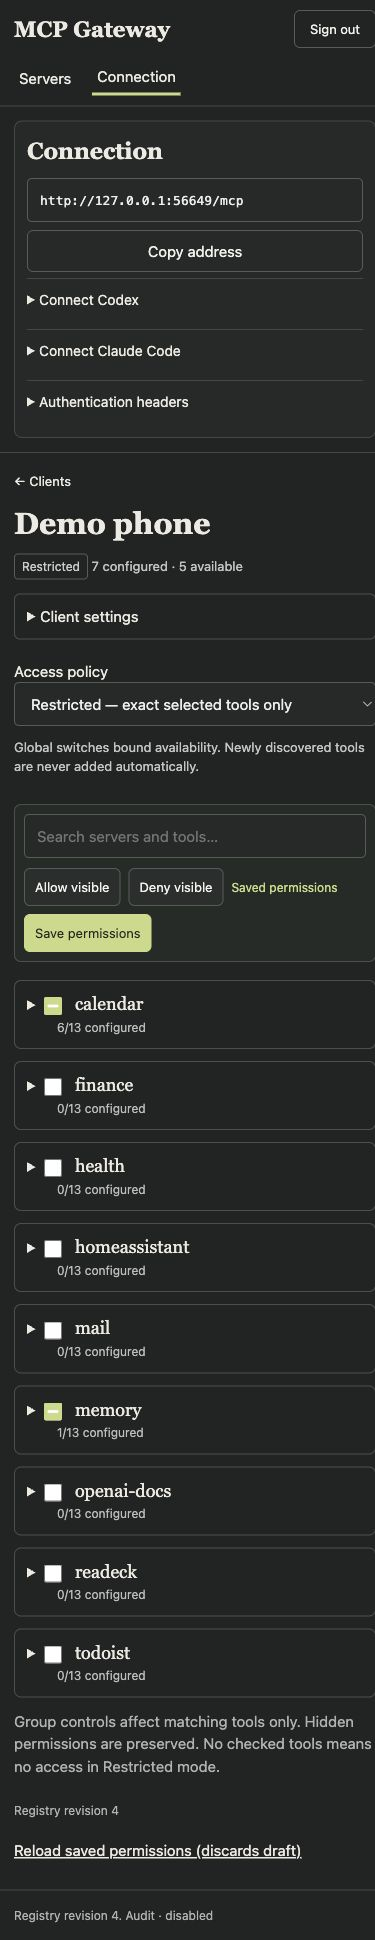
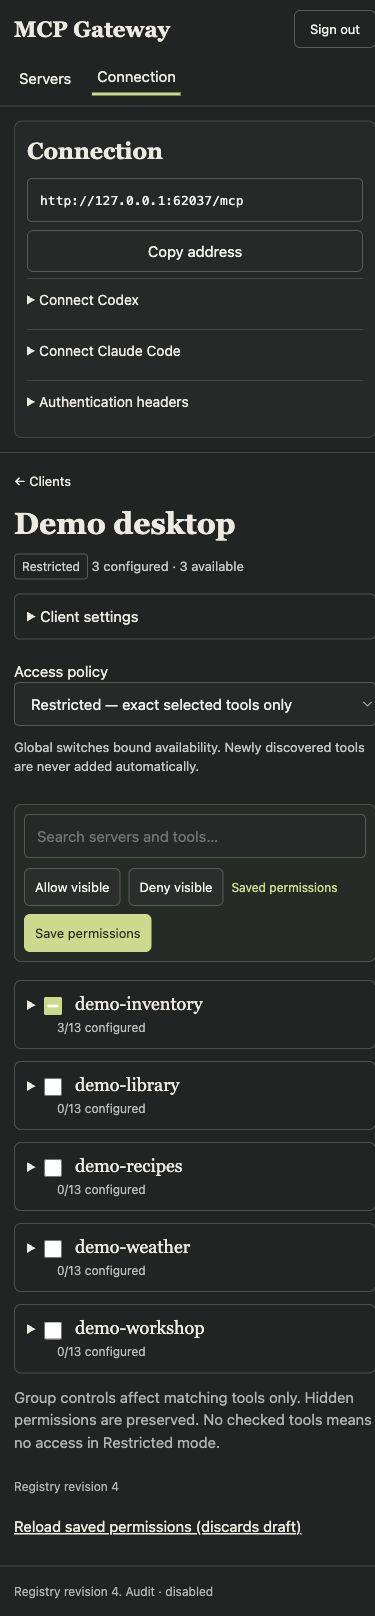
docs: update gateway guide and synthetic screenshots

diff --git a/scripts/readme_fixture.go b/scripts/readme_fixture.go
@@ -1,0 +1,142 @@
+//go:build ignore
+
+// Synthetic local browser fixture. It never contacts real providers.
+package main
+
+import (
+	"bytes"
+	"context"
+	"encoding/json"
+	"fmt"
+	"net/http"
+	"net/http/httptest"
+	"os"
+	"os/signal"
+	"path/filepath"
+	"syscall"
+	"time"
+
+	"github.com/modelcontextprotocol/go-sdk/mcp"
+	"mcp-gateway/internal/admin"
+	"mcp-gateway/internal/catalog"
+	"mcp-gateway/internal/config"
+	"mcp-gateway/internal/gateway"
+	"mcp-gateway/internal/readpolicy"
+	"mcp-gateway/internal/store"
+)
+
+func main() {
+	if err := run(); err != nil {
+		fmt.Fprintln(os.Stderr, err)
+		os.Exit(1)
+	}
+}
+
+func run() error {
+	ctx, stop := signal.NotifyContext(context.Background(), os.Interrupt, syscall.SIGTERM)
+	defer stop()
+	dir, err := os.MkdirTemp("", "gateway-workspace-fixture-")
+	if err != nil {
+		return err
+	}
+	defer os.RemoveAll(dir)
+	path := filepath.Join(dir, "registry.db")
+	if err = store.Migrate(ctx, "sqlite", path); err != nil {
+		return err
+	}
+	db, err := store.Open("sqlite", path, bytes.Repeat([]byte{14}, 32))
+	if err != nil {
+		return err
+	}
+	defer db.Close()
+	if err = os.Setenv("WORKSPACE_FIXTURE_CLIENT_TOKEN", "synthetic-workspace-client-token-123456"); err != nil {
+		return err
+	}
+
+	upstream := mcp.NewServer(&mcp.Implementation{Name: "synthetic-inventory", Version: "1"}, nil)
+	var definitions []*mcp.Tool
+	reads := []string{"list_items", "get_item", "search_items", "get_stock", "list_locations", "get_location"}
+	writes := []string{"add_item", "update_item", "remove_item", "move_item", "add_location", "remove_location"}
+	for _, name := range reads {
+		definitions = append(definitions, &mcp.Tool{Name: name, Description: "Synthetic read operation", InputSchema: map[string]any{"type": "object", "properties": map[string]any{}}, Annotations: &mcp.ToolAnnotations{ReadOnlyHint: true}})
+	}
+	for _, name := range writes {
+		definitions = append(definitions, &mcp.Tool{Name: name, Description: "Synthetic write operation", InputSchema: map[string]any{"type": "object", "properties": map[string]any{}}})
+	}
+	definitions = append(definitions, &mcp.Tool{Name: "preview_import", Description: "Synthetic unclassified operation", InputSchema: map[string]any{"type": "object", "properties": map[string]any{}}})
+	for _, tool := range definitions {
+		upstream.AddTool(tool, func(context.Context, *mcp.CallToolRequest) (*mcp.CallToolResult, error) {
+			return &mcp.CallToolResult{Content: []mcp.Content{&mcp.TextContent{Text: `{"synthetic":true}`}}}, nil
+		})
+	}
+	backend := httptest.NewServer(mcp.NewStreamableHTTPHandler(func(*http.Request) *mcp.Server { return upstream }, nil))
+	defer backend.Close()
+	hash, err := readpolicy.OperationFingerprint(definitions[0])
+	if err != nil {
+		return err
+	}
+	names := []string{"demo-inventory", "demo-recipes", "demo-library", "demo-workshop", "demo-weather"}
+	cfg := &config.Config{RegistryVersion: config.RegistryVersion, Servers: map[string]config.Server{}, Principals: map[string]config.Principal{"demo-cli": {AccessPolicy: config.LegacyShared, ToolAllowlist: map[string][]string{}, TokenEnv: "WORKSPACE_FIXTURE_CLIENT_TOKEN", Grants: map[string]map[string]config.Grant{}}}}
+	for i, name := range names {
+		server := config.Server{URL: backend.URL, Description: "Synthetic " + name + " connector", Enabled: i != 4, Tools: map[string]config.Tool{}}
+		for j, tool := range definitions {
+			v := config.Tool{Enabled: j%3 != 2, AccessMode: "shared"}
+			if j == 0 {
+				v.OperationKind = "read"
+				v.OperationContractHash = hash
+			}
+			if j >= len(reads) && j < len(reads)+len(writes) {
+				v.OperationKind = "write"
+			}
+			server.Tools[tool.Name] = v
+		}
+		cfg.Servers[name] = server
+		conn, e := catalog.FromSnapshot(store.Snapshot{Config: cfg}, name)
+		if e != nil {
+			return e
+		}
+		setting := server.Tools[definitions[0].Name]
+		setting.OperationContractHash, e = readpolicy.OperationFingerprint(definitions[0], catalog.ConnectionBinding(conn))
+		if e != nil {
+			return e
+		}
+		server.Tools[definitions[0].Name] = setting
+		cfg.Servers[name] = server
+	}
+	snap, err := db.CompareAndSwap(ctx, 0, cfg, nil)
+	if err != nil {
+		return err
+	}
+	cache := catalog.New()
+	defer cache.Close()
+	for _, name := range names {
+		conn, e := catalog.FromSnapshot(snap, name)
+		if e != nil {
+			return e
+		}
+		if e = cache.Publish(conn, snap.Revision, time.Now(), definitions); e != nil {
+			return e
+		}
+	}
+	handler, err := (&gateway.Gateway{Store: db, Catalog: cache, ReadBatch: gateway.NewReadBatchExecutor(&gateway.ReadBatchPolicy{Classified: true}), Timeout: time.Second}).Handler()
+	if err != nil {
+		return err
+	}
+	web := httptest.NewServer(handler)
+	defer web.Close()
+	aw := httptest.NewUnstartedServer(nil)
+	origin := "http://" + aw.Listener.Addr().String()
+	a, err := admin.New(db, admin.Options{Origin: origin, Token: "synthetic-workspace-admin-token-123456", Catalog: cache, BatchClassified: true, MCPEndpoint: web.URL + "/mcp"})
+	if err != nil {
+		aw.Listener.Close()
+		return err
+	}
+	aw.Config.Handler = a
+	aw.Start()
+	defer aw.Close()
+	if err = json.NewEncoder(os.Stdout).Encode(map[string]string{"admin_origin": origin, "mcp_endpoint": web.URL + "/mcp"}); err != nil {
+		return err
+	}
+	<-ctx.Done()
+	return nil
+}

diff --git a/README.md b/README.md
@@ -1,19 +1,41 @@
 # MCP Gateway
 
-A Go service that routes Streamable HTTP tool calls to configured MCP servers.
-It stores upstream connection settings and checks client permissions before
-forwarding each call.
+MCP Gateway is a self-hosted Go service that connects Codex, Claude Code and
+other Streamable HTTP clients to multiple MCP servers through one endpoint.
 
-The web admin manages servers, tool switches and client keys. Tools can be
-selected in groups for enablement or Read/Write classification. Each client has
-its own tool permissions, grouped by MCP server. New keys have no tool access.
-SQLite and PostgreSQL store the registry and encrypted credentials.
+## What it is for
+
+Without a gateway, each client needs its own upstream addresses and credentials.
+This service keeps those settings in one registry. Applications connect with
+separate client keys; adding a server or changing its credentials happens at the
+gateway. Each client has an exact list of tools it may use, bounded by global
+server and tool switches.
+
+The client receives four gateway tools by default: server discovery, tool
+listing, schema lookup and invocation. It can find an upstream tool and load its
+schema when needed instead of receiving every upstream definition at startup.
+Optional search returns matching tools with their schemas. Optional read batches
+run independent permitted reads in one gateway request.
+
+## Administration
+
+The **Servers** workspace manages upstream addresses, authentication, connection
+checks and global tool availability. It supports selecting tools in groups to
+enable, disable or classify them as Read, Write or Automatic.
+
+The **Connection** workspace manages client keys and permissions. Tools are
+grouped by MCP server, so an operator can select a server's current tools or a
+subset across several servers and save the selection together. New keys start
+without tool access. The page also contains connection instructions for Codex
+and Claude Code.
+
+SQLite or PostgreSQL stores the registry and encrypted credentials. Clients use
+Bearer or `X-API-Key` authentication; upstream credentials stay at the gateway.
 
 ## Screenshots
 
 Captured from a local fixture using synthetic servers, tools and clients.
 All endpoints are loopback; keys are hidden.
-[Capture setup](docs/screenshots/README.md).
 
 Servers and tool selection:
 
@@ -30,39 +52,13 @@ Client permissions:
 
 </details>
 
-## Try the synthetic demo
-
-Requires Go 1.26.4 or newer. No external services or real data are needed.
-
-```sh
-cp config/example.json config/local.json
-```
-
-Set these **synthetic demo-only** values in each of three terminals:
-
-```sh
-export GATEWAY_DEMO_TOKEN='synthetic-local-client-token'
-export DEMO_UPSTREAM_TOKEN='synthetic-local-upstream-token'
-```
-
-Then run one command per terminal:
-
-```sh
-# Terminal 1: synthetic upstream on 127.0.0.1:8081
-go run ./cmd/demo -mode server
-# Terminal 2: gateway on 127.0.0.1:8080
-go run ./cmd/mcp-gateway
-# Terminal 3: discovery, tool listing, schema and echo invocation
-go run ./cmd/demo -mode client
-```
-
-The gateway endpoint is `http://127.0.0.1:8080/mcp`; health is `/healthz`. Stop the processes with Ctrl+C. File mode has no web admin. The demo config uses legacy argument grants; servers added through the admin use shared enablement instead.
-
 ## Run the web admin
 
-See [self-hosting](docs/self-hosting.md) for SQLite setup, PostgreSQL roles, HTTPS routing and Authentik trust requirements. A new installation explicitly migrates and imports an empty bootstrap registry before starting the gateway. Startup never applies migrations automatically.
+See [self-hosting](docs/self-hosting.md) for SQLite setup, PostgreSQL roles and HTTPS routing. A new installation explicitly migrates and imports an empty bootstrap registry before starting the gateway. Startup never applies migrations automatically.
 
 In the admin, add an upstream, consent to its exact HTTPS endpoint, choose its authentication header, and run the connection check. That check only initializes MCP and lists tools. Enable the server and the tools you want clients to use. New additions default to disabled.
+
+Cloudflare Access protects browser access to the deployed admin. The gateway uses a trusted-proxy compatibility mode behind it; see [self-hosting](docs/self-hosting.md#cloudflare-access). This is separate from the optional MCP Managed OAuth route described below; native MCP clients authenticate with their gateway keys.
 
 The **Connection** page displays the configured MCP URL and lets you create a separate key for each application. Keys are hidden until Show or Copy is pressed. Existing environment-managed keys are preserved and cannot be revealed or deleted there.
 

diff --git a/docs/screenshots/README.md b/docs/screenshots/README.md
@@ -1,37 +1,28 @@
-# Synthetic screenshots
+# README screenshot fixture
 
-These are browser captures of the local `scripts/admin_workspace_fixture.go`
-fixture, built from commit `41548a7` and captured on 2026-11-01. The fixture uses
-a new temporary SQLite database, fixed demo credentials and loopback MCP handlers.
-It does not connect to production services or read personal data.
+Captured on 2026-11-01 from `scripts/readme_fixture.go`, using a new temporary
+SQLite database and local mock MCP handlers. This fixture does not load an
+existing registry or connect to external services.
 
-- `servers.jpg`: synthetic Calendar connector, operation groups and selection.
-- `clients.jpg`: synthetic client and permissions grouped by MCP server.
-- `clients-mobile.jpg`: the same client layout at a 390 × 844 CSS viewport.
+All server identifiers are fictional: `demo-inventory`, `demo-library`,
+`demo-recipes`, `demo-weather`, and `demo-workshop`. Client names are
+`Demo desktop`, `Demo terminal`, and the environment-managed `demo-cli`.
+Tools such as `list_items` and `get_stock` are mock operations returning
+`{"synthetic":true}`. All URLs are loopback addresses. No key was revealed.
 
-The endpoint and upstream ports are assigned by the fixture. Client names are
-`Demo phone` and `Demo laptop`; the `client` principal is a synthetic
-environment-managed example. No key was revealed during capture. The images do
-not include browser chrome, production domains or production account names.
-They are direct screenshots, without compositing or replacement text.
-The desktop client image is a full-page capture. Image sizes are 1265 × 712
-(servers), 1265 × 1391 (clients), and 375 × 1940 (mobile full page).
-
-## Reproduce
-
-From the repository root:
+Run from the repository root:
 
 ```sh
-go run scripts/admin_workspace_fixture.go
+go run scripts/readme_fixture.go
 ```
 
-Open the printed `admin_origin`. Sign in using the synthetic administrator token
-defined in the fixture source. Use these credentials only for this local demo.
+Open the printed `admin_origin` and sign in with the demo administrator token
+defined in the fixture source. Create the two demo clients. For `Demo desktop`,
+allow `get_item`, `get_stock`, and `list_items` on `demo-inventory`, then save.
+Collapse the tool group for the client captures. On the server page, select the
+Read group without changing the switches.
 
-Create the two demo clients. For `Demo phone`, select the six Calendar read tools
-and `memory/list_calendars`, then save the permissions. Server/tool switches are
-left at their synthetic defaults. Capture the server and client workspaces with
-keys hidden. Stop the fixture with Ctrl+C; its temporary database is removed.
-
-These three images are the README screenshots. No operational or production
-captures are included.
+`servers.jpg` is a desktop viewport capture; `clients.jpg` is a desktop full-page
+capture; `clients-mobile.jpg` is a full-page capture at a 390 × 844 CSS viewport.
+These are direct browser screenshots without replacement text or compositing.
+Stop the fixture with Ctrl+C to remove its temporary database.

diff --git a/docs/self-hosting.md b/docs/self-hosting.md
@@ -128,13 +128,34 @@ require an initial client refresh; changing the allowlist is read on subsequent
 admissions. Generic `invoke_tool` remains capable of writes and is not marked
 read-only. Disabling the batch flag restores the five-tool search interface.
 
-## Authentik
+## Cloudflare Access
 
-Set `GATEWAY_ADMIN_AUTH_MODE=authentik`, clear `GATEWAY_ADMIN_TOKEN`, and configure at least one of `GATEWAY_ADMIN_ALLOWED_USERS` or `GATEWAY_ADMIN_ALLOWED_GROUPS`. Configure `GATEWAY_ADMIN_TRUSTED_PROXY_CIDRS` with exact immediate proxy peers (`/32` or `/128`).
+Protect the browser-facing `/gateway/admin` and `/gateway/admin/*` routes with a
+Cloudflare Access application and an explicit administrator access policy. Keep
+the origin and admin listener private so requests cannot bypass Access.
 
-Only a trusted, isolated proxy may supply `X-authentik-username` and `X-authentik-groups`. Strip incoming identity headers, run Authentik forward auth, then attach its response headers. Group values use pipe separators. Ensure clients and other containers cannot reach the admin listener from a trusted peer address. Forwarded client addresses do not grant trust.
+The current deployment uses Cloudflare Access for browser sign-in while the
+gateway runs in its legacy `authentik` trusted-proxy mode. That mode is a
+compatibility contract for the gateway's expected identity headers; it does not
+by itself establish which identity provider authenticates users. Preserve the
+existing trusted proxy and identity-header configuration until a replacement is
+reviewed and verified. Do not switch an existing installation to token mode as
+a documentation-only change.
 
-Protect only admin routes with SSO; the MCP route uses its own Bearer/X-API-Key authentication. Configure Authentik's callback/sign-out routes for your host. Verify real login, callback and an AJAX action after the session has aged; a healthy gateway alone does not prove SSO works.
+Cloudflare Access is an external access layer. It does not introduce a
+`cloudflare` value for `GATEWAY_ADMIN_AUTH_MODE` or replace the gateway's own
+admin authentication. For a token-based installation, keep
+`GATEWAY_ADMIN_AUTH_MODE=token` and a separate `GATEWAY_ADMIN_TOKEN`; the local
+SQLite example above uses this mode. Do not treat an unverified identity header
+as an authenticated administrator.
+
+Keep browser Access protection separate from native `/gateway/mcp` authentication:
+that endpoint accepts gateway Bearer or `X-API-Key` credentials. Optional
+Cloudflare Managed OAuth uses a separate MCP route and gateway configuration;
+see [MCP OAuth setup](deployment/chatgpt-oauth.md).
+
+Verify browser login, an authenticated admin action, and native MCP connectivity
+after changing access rules. Service health alone does not verify authentication.
 
 ## Agent permissions
 
